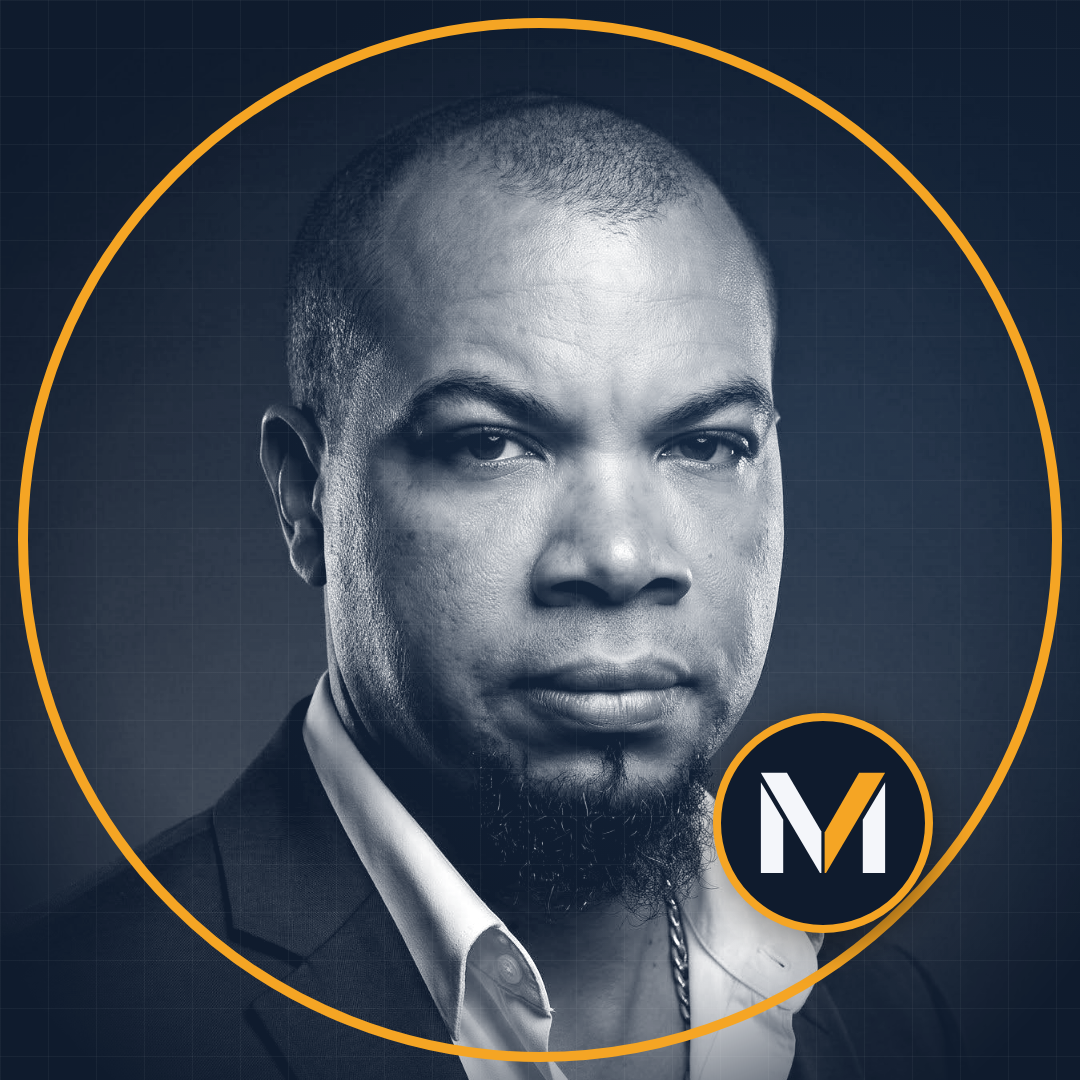
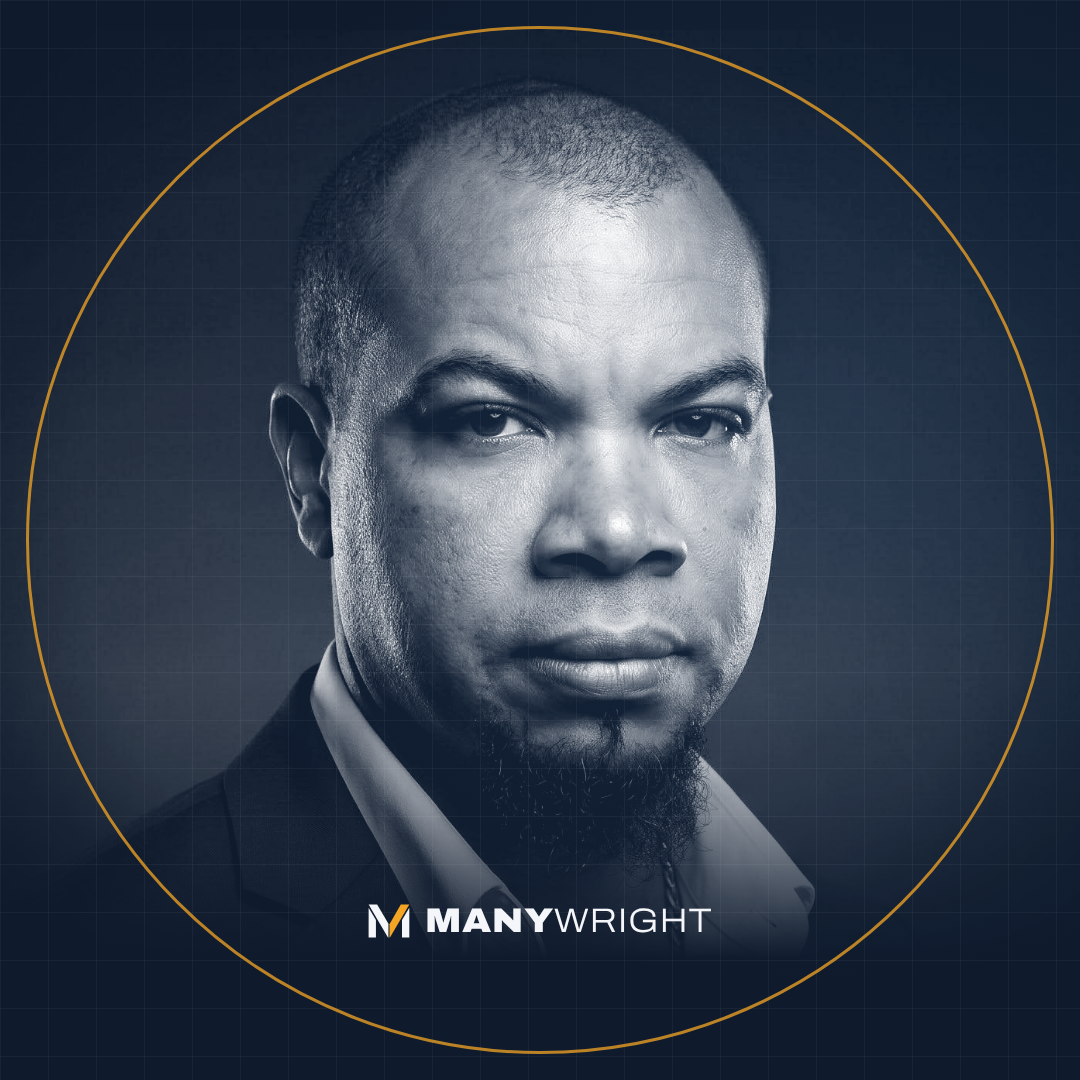
Profile picture: replace the large M badge with a small wordmark under the photo
Claude-Session: https://claude.ai/code/session_01EztSnjgWketr8Q54kDD8FU

diff --git a/manywright-social-assets/build.js b/manywright-social-assets/build.js
@@ -82,12 +82,11 @@ const designs = {
     </div>`],
 
   // Profile picture: Facebook shows it as a circle, so everything sits inside the inscribed circle.
+  // The logo stays small and quiet: a thin ring and a little wordmark under the photo, nothing over the face.
   'profile-picture-1080x1080': [1080, 1080, `
-    <div class="photo" style="left:-75px;top:40px;width:1230px;height:1230px;-webkit-mask-image:radial-gradient(circle at 50% 42%,#000 46%,transparent 72%);"></div>
-    <div style="position:absolute;inset:18px;border-radius:50%;border:10px solid #F5A524;"></div>
-    <div style="position:absolute;left:713px;top:713px;width:220px;height:220px;border-radius:50%;background:#0F1B2D;border:8px solid #F5A524;display:flex;align-items:center;justify-content:center;box-shadow:0 10px 40px rgba(0,0,0,0.5);">
-      <svg viewBox="118 144 275 223" style="width:128px;height:auto;"><polygon points="122,168 170,249 170,363 122,363" fill="#F4F6FA"/><polygon points="122,148 178,148 252,274 252,363 249,363" fill="#F4F6FA"/><polygon points="389,148 333,148 259,276 259,363 262,363" fill="#F5A524"/><polygon points="389,168 341,249 341,363 389,363" fill="#F4F6FA"/></svg>
-    </div>`],
+    <div class="photo" style="left:-55px;top:30px;width:1190px;height:1190px;-webkit-mask-image:linear-gradient(0deg,transparent 22%,#000 46%),radial-gradient(circle at 50% 40%,#000 50%,transparent 74%);-webkit-mask-composite:source-in;"></div>
+    <div style="position:absolute;inset:26px;border-radius:50%;border:3px solid rgba(245,165,36,0.75);"></div>
+    <div class="wordmark" style="position:absolute;left:0;right:0;top:902px;justify-content:center;font-size:34px;">${M}<div><b>MANY</b><span>WRIGHT</span></div></div>`],
 };
 
 (async () => {
